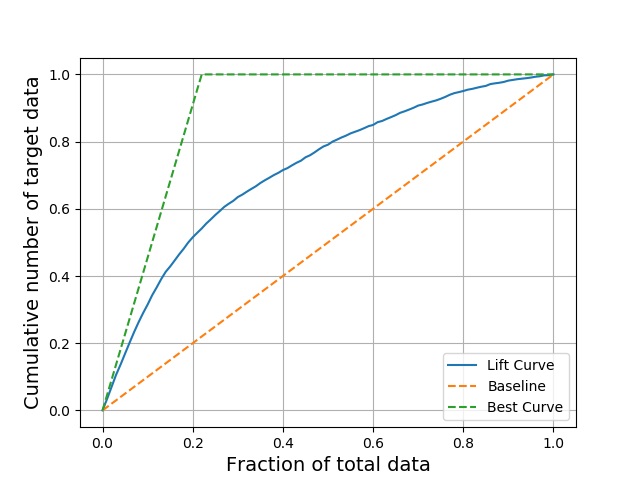
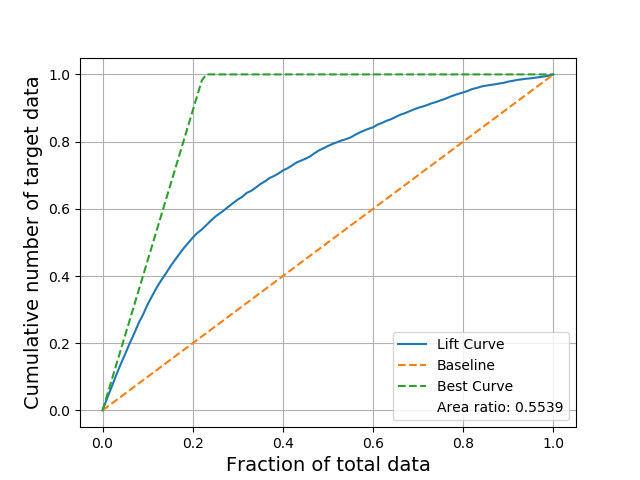
Minor fixes

diff --git a/src/network/logreg.py b/src/network/logreg.py
@@ -5,75 +5,17 @@ import pickle,os
 from sklearn.model_selection import train_test_split
 
 
-class LogReg_Ising():
+class LogReg():
 
-    def __init__(self):
+    def __init__(self, X, Y, test_size = 0.5):
 
-        self.fetch_data()
+        X_train, X_test, Y_train, Y_test = train_test_split(X, Y, test_size = test_size)
+
+        self.X_train = X_train ; self.X_test = X_test
+        self.Y_train = Y_train ; self.Y_test = Y_test
 
         # Initialize parameters
-        self.J = np.random.uniform(-0.5, 0.5, (self.X_train.shape[1],1))
-
-    def fetch_data(self):
-        """
-        Fetchin the 2 dimensional ising data
-        and spliting it into ordered, disordered and critical
-        data
-        """
-
-        train_to_test_ratio=0.5 # training samples
-
-        # load data
-        file_name = "IsingData/Ising2DFM_reSample_L40_T=All.pkl" # this file contains 16*10000 samples taken in T=np.arange(0.25,4.0001,0.25)
-        data = pickle.load(open(file_name,'rb')) # pickle reads the file and returns the Python object (1D array, compressed bits)
-        data = np.unpackbits(data).reshape(-1, 1600) # Decompress array and reshape for convenience
-        data=data.astype('int')
-        data[np.where(data==0)]=-1 # map 0 state to -1 (Ising variable can take values +/-1)
-
-        file_name = "IsingData/Ising2DFM_reSample_L40_T=All_labels.pkl" # this file contains 16*10000 samples taken in T=np.arange(0.25,4.0001,0.25)
-        labels = pickle.load(open(file_name,'rb')) # pickle reads the file and returns the Python object (here just a 1D array with the binary labels)
-
-        # divide data into ordered, critical and disordered
-        X_ordered=data[:70000,:]
-        Y_ordered=labels[:70000]
-
-        X_critical=data[70000:100000,:]
-        Y_critical=labels[70000:100000]
-
-        X_disordered=data[100000:,:]
-        Y_disordered=labels[100000:]
-
-        del data,labels
-
-        # define training and test data sets
-        X=np.concatenate((X_ordered,X_disordered))
-        Y=np.concatenate((Y_ordered,Y_disordered))
-        self.X_critical = np.c_[np.ones(X_critical.shape[0]), X_critical]
-        self.Y_critical = Y_critical
-
-        # pick random data points from ordered and disordered states
-        # to create the training and test sets
-        X_train,X_test,Y_train,Y_test=train_test_split(X,Y,train_size=train_to_test_ratio)
-
-        # full data set
-        X=np.concatenate((X_critical,X))
-        Y=np.concatenate((Y_critical,Y))
-
-        print('X_train shape:', X_train.shape)
-        print('Y_train shape:', Y_train.shape)
-        print()
-        print(X_train.shape[0], 'train samples')
-        print(X_critical.shape[0], 'critical samples')
-        print(X_test.shape[0], 'test samples')
-
-
-        self.X_train = np.c_[np.ones(X_train.shape[0]), X_train]
-        self.X_test = np.c_[np.ones(X_test.shape[0]), X_test]
-
-        self.Y_train = Y_train.reshape(-1, 1)
-        self.Y_test = Y_test.reshape(-1, 1)
-
-
+        self.beta = np.random.uniform(-0.5, 0.5, (self.X_train.shape[1],1))
 
     def optimize(
         self,
@@ -101,7 +43,7 @@ class LogReg_Ising():
 
         X_train = self.X_train ; X_test = self.X_test
         Y_train = self.Y_train ; Y_test = self.Y_test
-        J = self.J
+        beta = self.beta
 
         batchSize = int(X_train.shape[0]/m)
         self.batchSize = batchSize
@@ -114,14 +56,14 @@ class LogReg_Ising():
             learning_schedule = lambda t : eta
 
         if regularization == 'l2':
-            reg_cost = lambda J: lamb*np.sum(J**2)
-            reg_grad = lambda J: 2*lamb*J
+            reg_cost = lambda beta: lamb*np.sum(beta**2)
+            reg_grad = lambda beta: 2*lamb*beta
         elif regularization == 'l1':
-            reg_cost = lambda J: lamb*np.sum(np.abs(J))
-            reg_grad = lambda J: lamb*np.sign(J)
+            reg_cost = lambda beta: lamb*np.sum(np.abs(beta))
+            reg_grad = lambda beta: lamb*np.sign(beta)
         elif regularization == None:
-            reg_cost = lambda J: 0
-            reg_grad = lambda J: 0
+            reg_cost = lambda beta: 0
+            reg_grad = lambda beta: 0
 
         #Stochastic Gradient Descent (SGD)
         for epoch in range(epochs + 1):
@@ -139,24 +81,24 @@ class LogReg_Ising():
                 xBatch = X_train[rand_idx*batchSize : (rand_idx+1)*batchSize]
                 yBatch = Y_train[rand_idx*batchSize : (rand_idx+1)*batchSize]
 
-                y = xBatch @ J
+                y = xBatch @ beta
                 #p = np.exp(y)/(1 + np.exp(y))
                 p = 1.0/(1 + np.exp(-y))
                 eta = learning_schedule(epoch*m+i)
-                dJ = -(xBatch.T @ (yBatch - p))/xBatch.shape[0] + reg_grad(J)
-                J -= eta*dJ
+                dbeta = -(xBatch.T @ (yBatch - p))/xBatch.shape[0] + reg_grad(beta)
+                beta -= eta*dbeta
 
             if epoch % 10 == 0 or epoch == 0:
 
-                logit_train = X_train @ J
-                self.train_cost = (-np.sum((Y_train * logit_train) - np.log(1 + np.exp(logit_train))))/X_train.shape[0] + reg_cost(J)
-                p_train = 1/(1 + np.exp(-logit_train))
-                self.train_accuracy = np.sum((p_train > 0.5) == Y_train)/X_train.shape[0]
+                logit_train = X_train @ beta
+                self.train_cost = (-np.sum((Y_train * logit_train) - np.log(1 + np.exp(logit_train))))/X_train.shape[0] + reg_cost(beta)
+                self.p_train = 1/(1 + np.exp(-logit_train))
+                self.train_accuracy = np.sum((self.p_train > 0.5) == Y_train)/X_train.shape[0]
 
-                logit_test = X_test @ J
-                self.test_cost = (-np.sum((Y_test * logit_test) - np.log(1 + np.exp(logit_test))))/X_test.shape[0] + reg_cost(J)
-                p_test = 1/(1 + np.exp(-logit_test))
-                self.test_accuracy = np.sum((p_test > 0.5) == Y_test)/X_test.shape[0]
+                logit_test = X_test @ beta
+                self.test_cost = (-np.sum((Y_test * logit_test) - np.log(1 + np.exp(logit_test))))/X_test.shape[0] + reg_cost(beta)
+                self.p_test = 1/(1 + np.exp(-logit_test))
+                self.test_accuracy = np.sum((self.p_test > 0.5) == Y_test)/X_test.shape[0]
 
                 print("Epoch: ", epoch)
                 print("  Cost  | Training: %f, Test: %f" %(self.train_cost, self.test_cost))
@@ -166,5 +108,5 @@ class LogReg_Ising():
 
 if __name__ == '__main__':
 
-    logreg = LogReg_Ising()
+    logreg = LogReg()
     logreg.optimize(m = 1000, regularization='l1', lamb = 100)

diff --git a/src/metrics.py b/src/metrics.py
@@ -50,6 +50,7 @@ def gain_chart(y, ypred, threshold = 0.5, plot = True):
         plt.plot(fracs, gains, label='Lift Curve')
         plt.plot(fracs, fracs, '--', label='Baseline')
         plt.plot(fracs, besty, '--', label='Best Curve')
+        plt.plot([], [], ' ', label='Area ratio: %.4f' %ratio)
         plt.xlabel('Fraction of total data', fontsize=14)
         plt.ylabel('Cumulative number of target data', fontsize=14)
         plt.grid(True)
@@ -81,7 +82,7 @@ def prob_acc(y, ypred, n = 50, plot = True):
 
     if plot:
         plt.plot(pred_plt, P, 'o', markersize=0.8)
-        plt.plot(pred_plt, b + pred_plt*a, label="y = %.3fx + %.3f" %(a, b))
+        plt.plot(pred_plt, b + pred_plt*a, label="y = %.3fx + %.3f\n R2 = %.4f" %(a, b,R2))
         plt.xlim([0, 1])
         plt.ylim([0, 1])
         plt.xlabel("Predicted probability")

diff --git a/src/test.py b/src/test.py
@@ -9,9 +9,9 @@ from metrics import gain_chart, prob_acc
 X, Y = get_data()
 print(np.count_nonzero(Y == 1))
 
-nn = NeuralNet(X, Y.flatten(), nodes = [23, 50, 50, 2], activations = ['tanh', 'tanh', None], cost_func = 'log')
+nn = NeuralNet(X, Y.flatten(), nodes = [23, 20, 20, 2], activations = ['tanh', 'tanh',None], cost_func = 'log')
 nn.split_data(frac = 0.5, shuffle = True)
-nn.TrainNN(epochs = 100, batchSize = 200, eta0 = 0.01, n_print = 100)
+nn.TrainNN(epochs = 10000, batchSize = 200, eta0 = 0.01, n_print = 100)
 
 ypred_test = nn.feed_forward(nn.xTest, isTraining=False)
 gain_chart(nn.yTest, ypred_test)

diff --git a/src/logistic.py b/src/logistic.py
@@ -1,0 +1,17 @@
+import numpy as np
+from read_data import get_data
+import sys
+sys.path.append("network/")
+from logreg import LogReg
+from metrics import gain_chart, prob_acc
+
+#X, Y = get_data(normalized = False, standardized = False)
+X, Y = get_data()
+
+logreg = LogReg(X, Y)
+logreg.optimize(m = 100, epochs= 2000, eta = 0.01, regularization='l2', lamb=0.0001)
+
+ypred_train = logreg.p_train
+ypred_test = logreg.p_test
+gain_chart(logreg.Y_test, ypred_test)
+prob_acc(logreg.Y_test, ypred_test)

diff --git a/src/rf_test.py b/src/rf_test.py
@@ -13,7 +13,7 @@ Y = Y.flatten()
 X_train, X_test, Y_train, Y_test = train_test_split(X, Y, test_size = 0.5)
 
 
-clf_rf = RandomForestClassifier(n_estimators=100, max_depth=10)
+clf_rf = RandomForestClassifier(n_estimators=100, max_depth=6)
 
 clf_rf.fit(X_train, Y_train)
 
@@ -24,7 +24,7 @@ prob_acc(Y_test, ypred_test)
 
 
 
-clf_dt = DecisionTreeClassifier(max_depth = 5)
+clf_dt = DecisionTreeClassifier(max_depth = 4)
 clf_dt.fit(X_train, Y_train)
 
 ypred_test = clf_dt.predict_proba(X_test)
